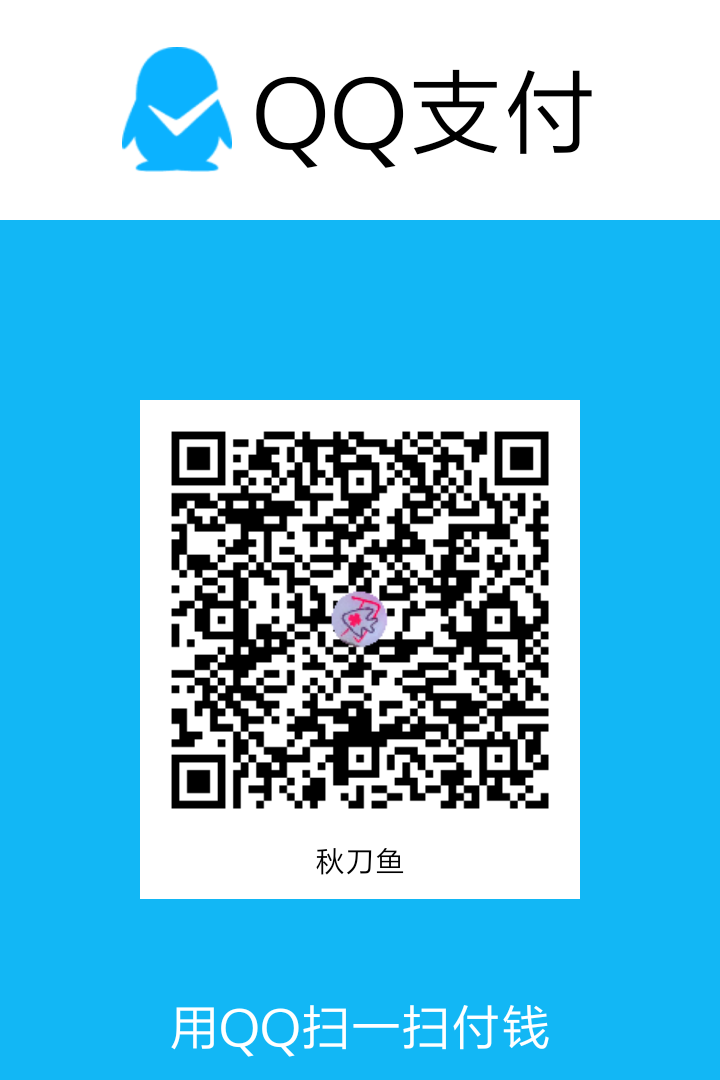
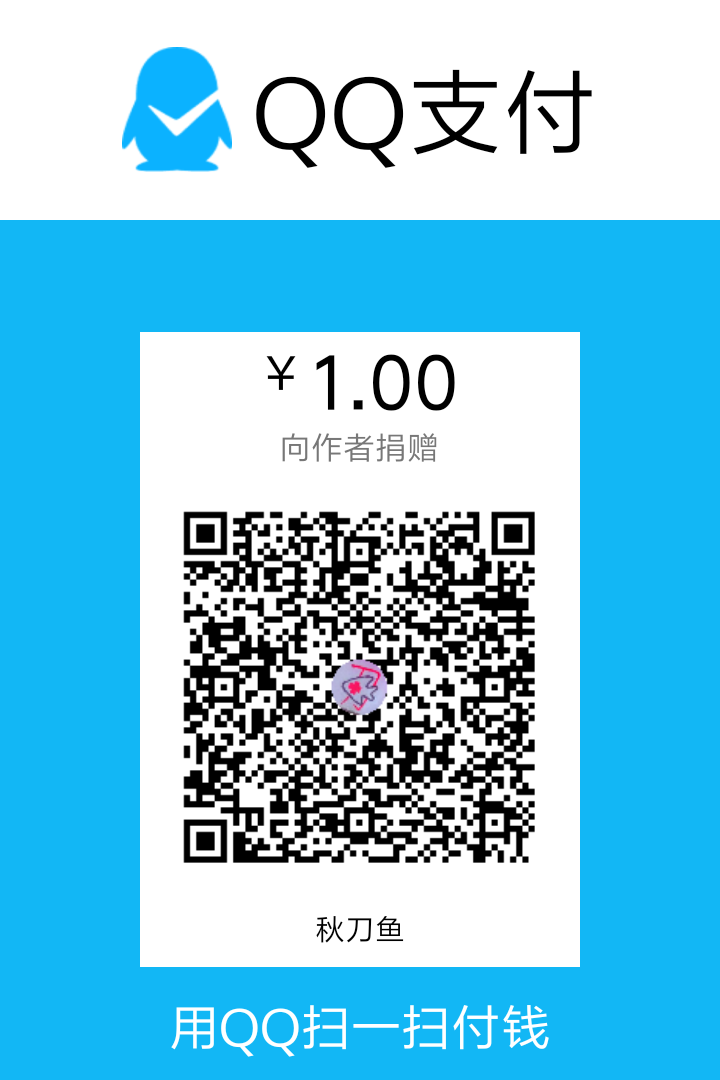
设置捐赠金额为1元，删除多余代码

Changed region(s): [[0.1833, 0.3056, 0.825, 0.9167]]

diff --git a/index.html b/index.html
@@ -40,7 +40,7 @@
         </div>
         <div class="col-md-2 col-md-offset-1 hidden-sm hidden-xs text-center donate">
             <div class="panel panel-info">
-                <div class="panel-heading">好用？捐赠一下😊
+                <div class="panel-heading">好用？捐赠一元😊
                 </div>
                 <div class="panel-body">
                     <img src="img/Allpay-85.png" alt="donate">
@@ -97,7 +97,6 @@
 <script>
     $(function () {
         $('[data-toggle="tooltip"]').tooltip();
-        $('[data-toggle="popover"]').popover();
     });
 
     document.querySelector('#formInfo').addEventListener('submit',function(e){

diff --git a/donate.html b/donate.html
@@ -26,7 +26,7 @@
 <script>
     if(navigator.userAgent.match(/Alipay/i)) {
         // 支付宝扫描
-        window.location.href = "HTTPS://QR.ALIPAY.COM/FKX04860YSWCWAKXGDKE0F";
+        window.location.href = "https://qr.alipay.com/fkx00412sgahmxordnpsebc";
     } else if(navigator.userAgent.match(/MicroMessenger\//i)) {
         // 微信扫描
         document.getElementById("we-pay").style.display = "block";
